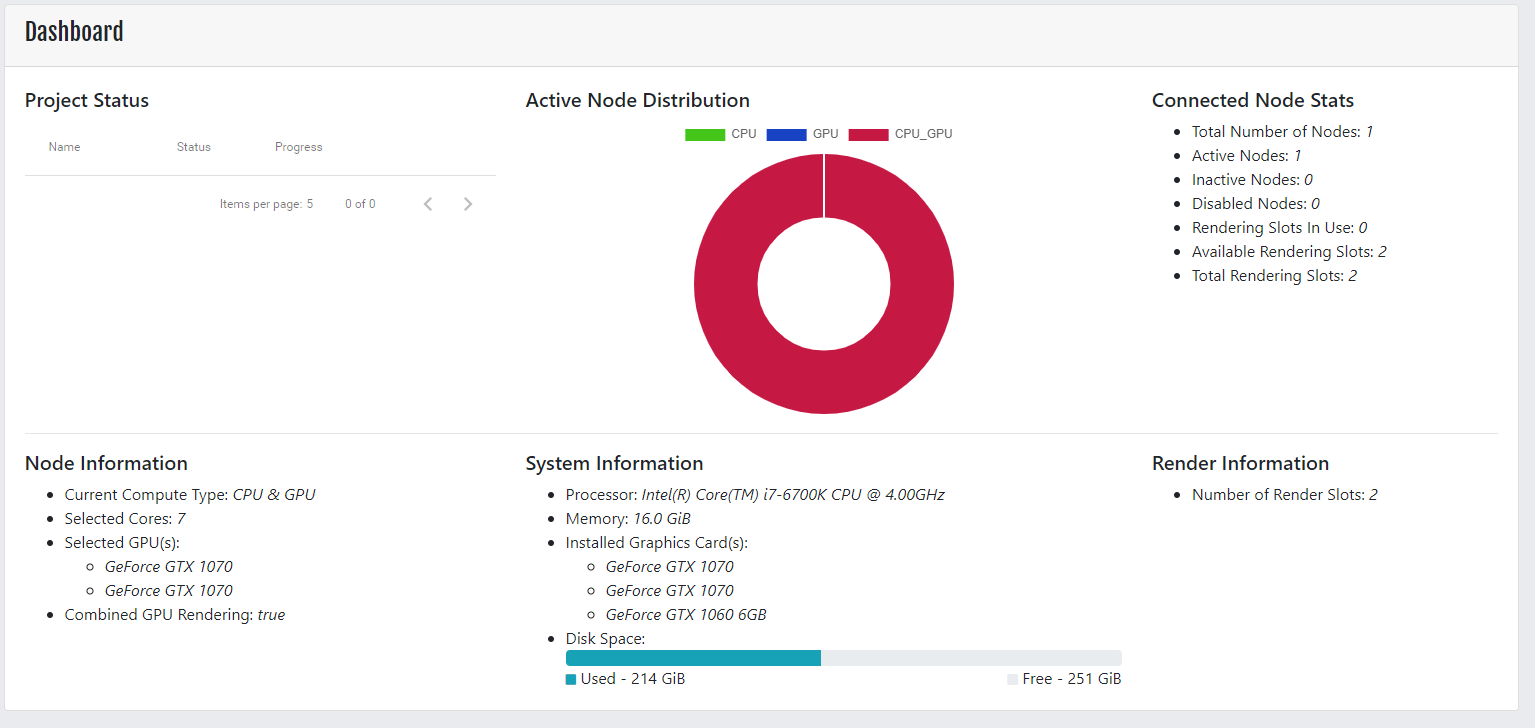
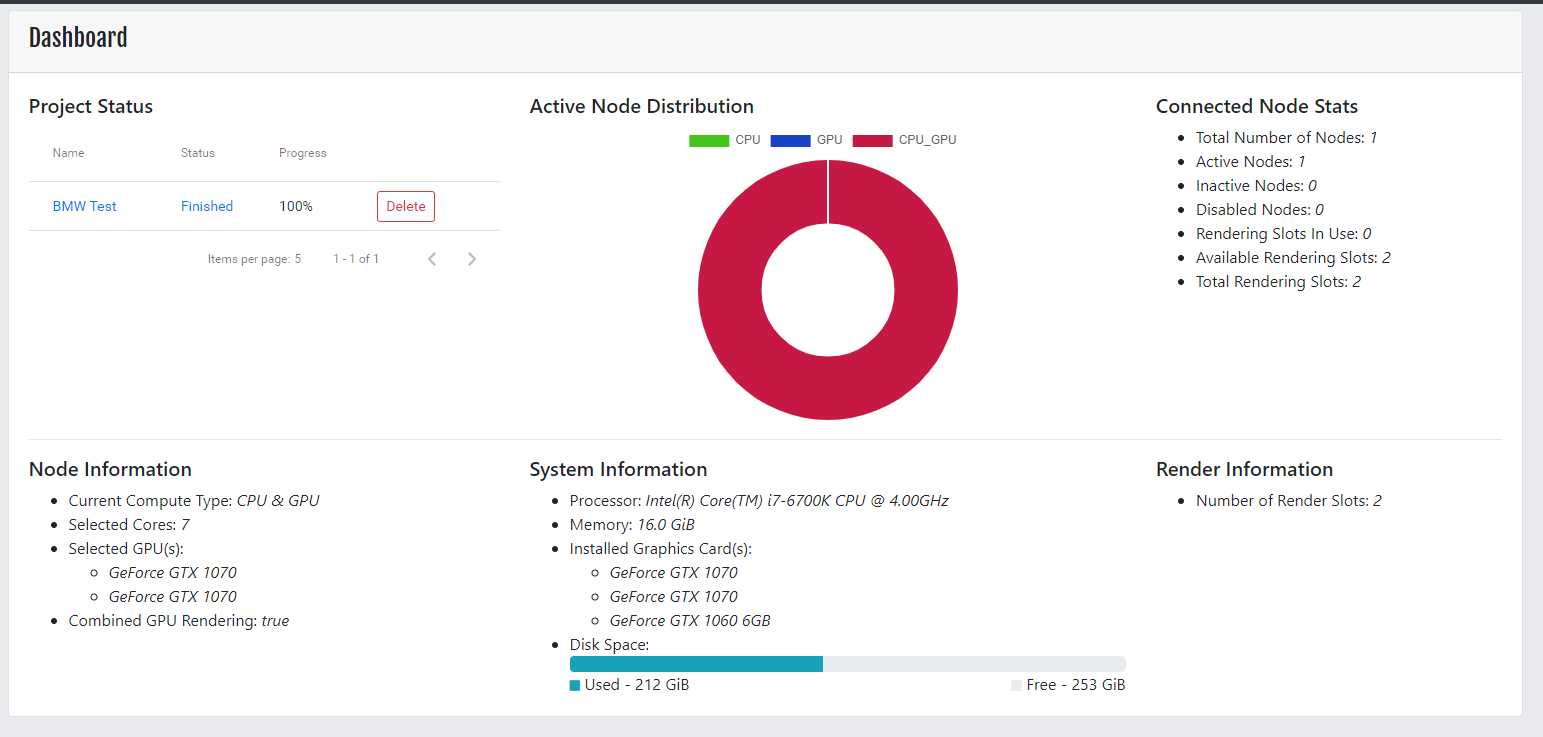
adding more example images

diff --git a/docs/createproject.md b/docs/createproject.md
@@ -1,0 +1,11 @@
+![menu](assets/menu/menu.PNG)
+
+From the menu select Projects.  This will bring up the projects main screen.
+
+![projects](assets/projects/inital_projects.PNG)
+
+Select New Project
+
+![create_wizard](assets/projects/create_project_wiz_1.PNG)
+
+https://download.blender.org/demo/test/BMW27_2.blend.zip

diff --git a/docs/nodebenchmark.md b/docs/nodebenchmark.md
@@ -20,3 +20,5 @@ When a node is added to Sethlans a benchmark request is sent to the node in orde
 
 
 ![benchmark](assets/gswizard/benchmark_complete.PNG)
+
+After benchmarking has completed, the Benchmark section will be populated with values. CPU, CUDA and OPENCL are for CPU, NVIDIA and AMD benchmarks respectively.
